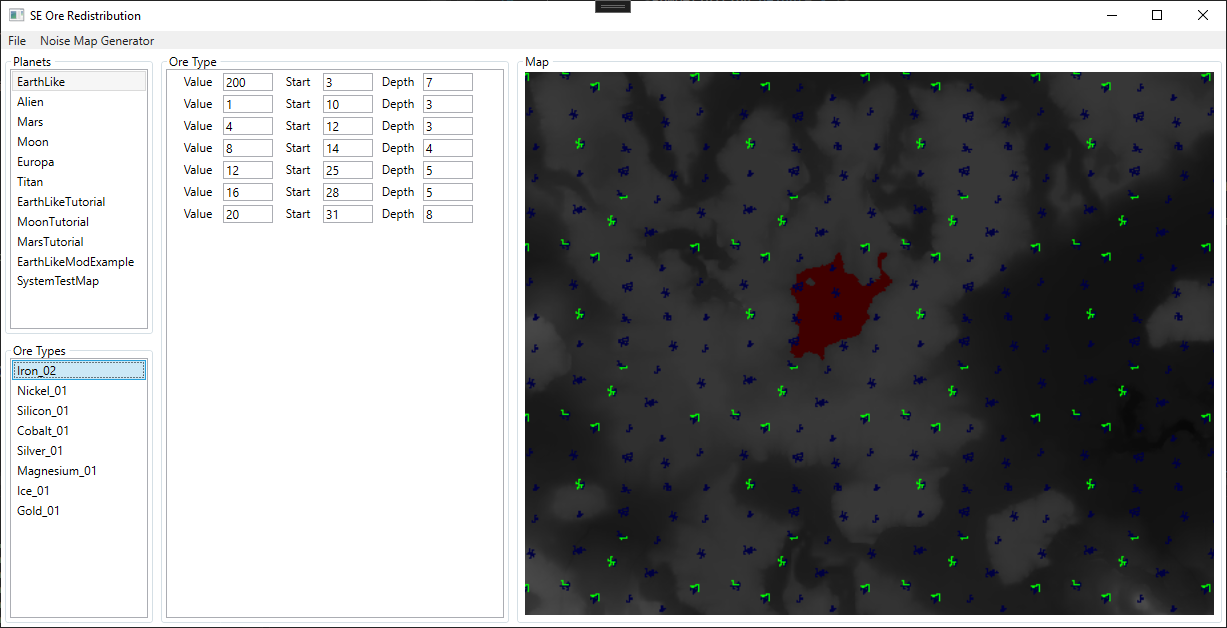
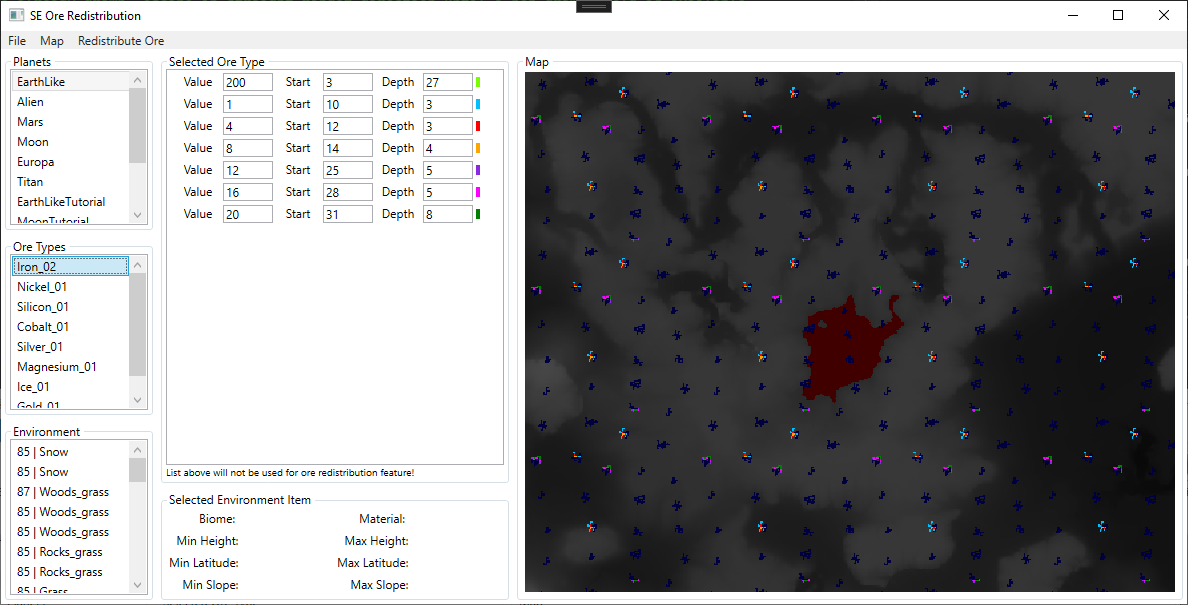
README and screenshots updated.

diff --git a/README.md b/README.md
@@ -4,9 +4,24 @@ Ignore the noise and generator stuff. Thats just an experiment.
 
 ## SpaceEngineersOreRedistribution:
 This is a viewer for the planet definition files, specifically ore.
-My later goal is to randomize ore distribution on planets.
+
+Default ore distribution in SE follows a fixed pattern as seen here:
 
 ![Screenshot of viewer](Screenshots/SE_Ore.png)
+
+This is nice for new players because they can find anything they need within 5km.
+I wanted to add more randomness and motivate exploration. This tool can generate new material maps with randomized ores and a XML file with the corresponding ore mappings. These files can be used to create a modded planet. Creating a mod is still a manual process.
+
+![Screenshot of viewer modded](Screenshots/SE_Ore_Modded.png)
+
+This the program takes a list of ore types to spawn and lets you change some variables to influence the size and depth of the ore veins. I might add additional parameters later. I need balance the probabilities a bit more.
+
+
+![Screenshot of redistribution setup](Screenshots/Redistribution_Setup.png)
+
+Currently 9-10 different ore depths will be generated and used. The veins contain more ore than in the vanilla game as a compensation for the more hard to find ore.
+
+![Screenshot of ore mappings](Screenshots/OreMappings.png)
 
 ## SeAdminHelper
 
